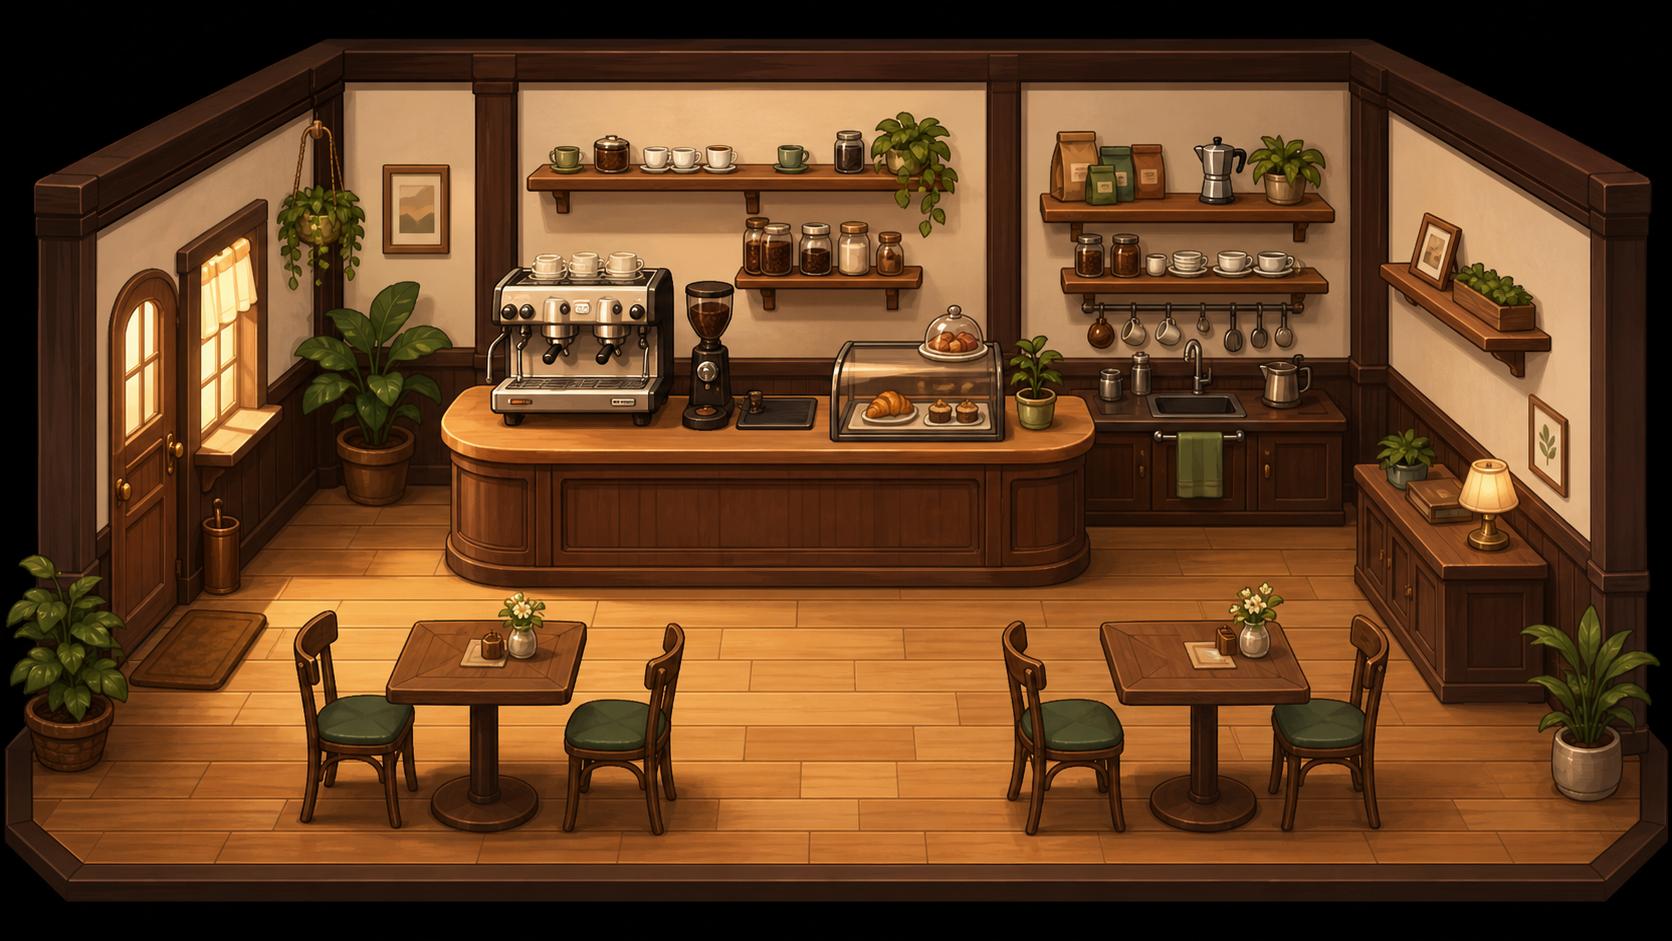
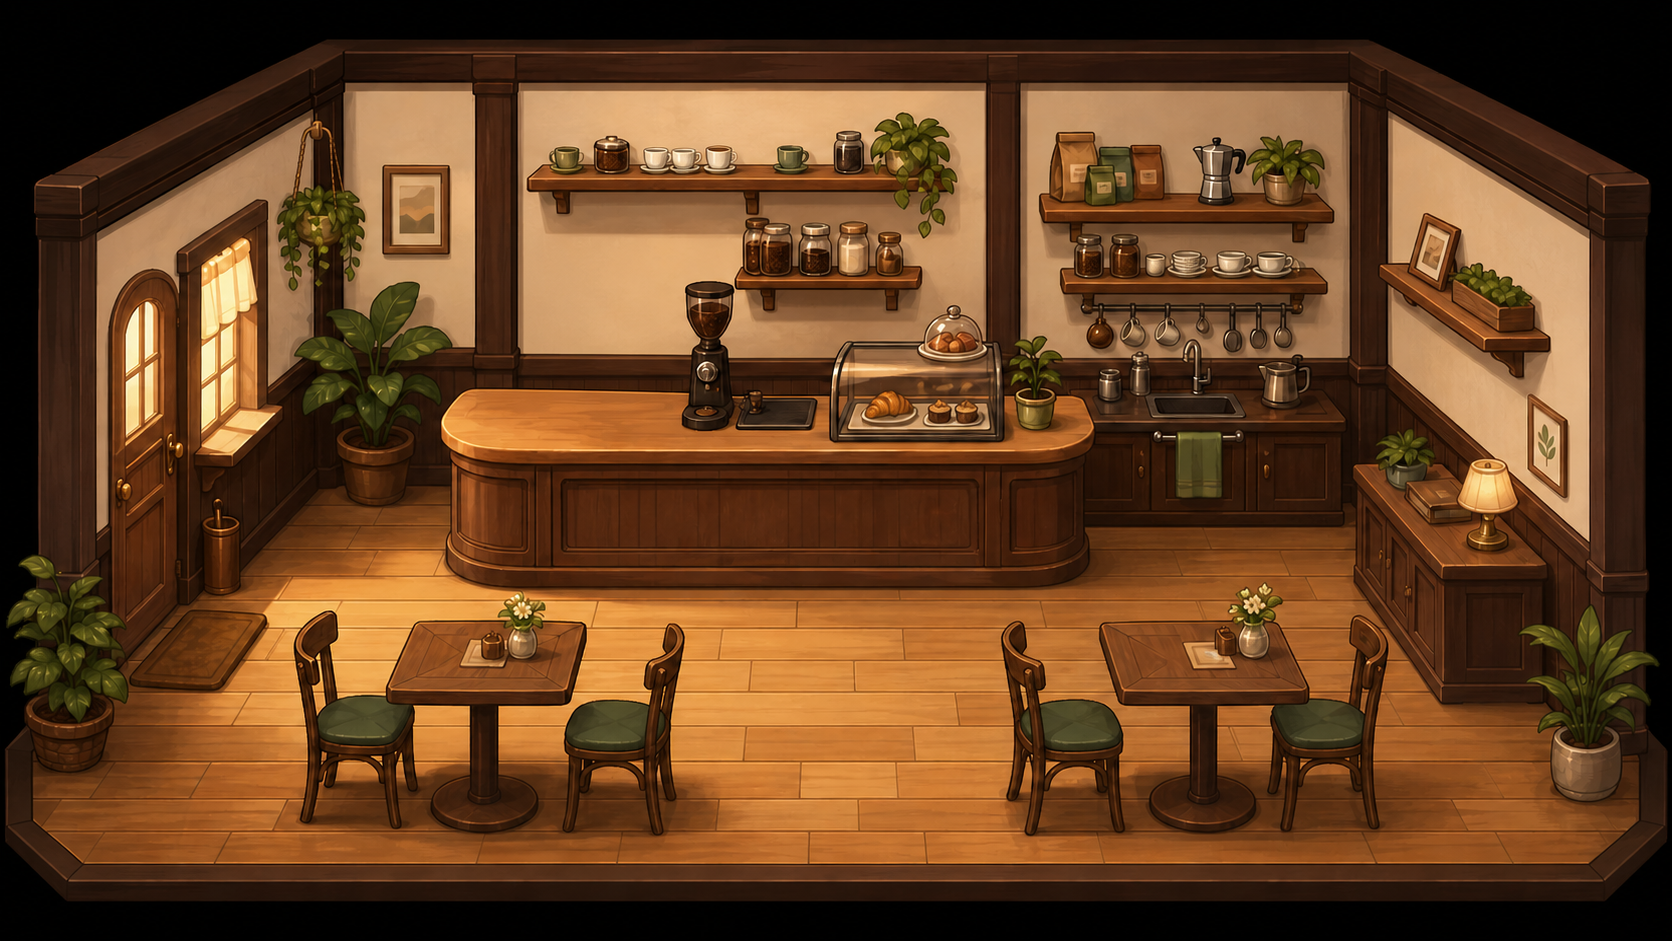
Use clean machine-free cafe background

diff --git a/Assets/GameManager.cs b/Assets/GameManager.cs
@@ -3870,7 +3870,7 @@ public class GameManager : MonoBehaviour
         coffeeMachineSceneImage.preserveAspect = true;
         coffeeMachineSceneImage.raycastTarget = false;
 
-        coffeeMachineLockedPlaceholderImage = CreateSceneBox(parent, "CoffeeMachineLockedPlaceholder", new Vector2(-276f, 164f), new Vector2(266f, 226f), Color.white);
+        coffeeMachineLockedPlaceholderImage = CreateSceneBox(parent, "CoffeeMachineLockedPlaceholder", new Vector2(-294.5363f, 164.3574f), new Vector2(216.5335f, 206.0149f), Color.white);
         coffeeMachineLockedPlaceholderImage.sprite = GetCoffeeMachineLockedPlaceholderSprite();
         coffeeMachineLockedPlaceholderImage.preserveAspect = true;
         coffeeMachineLockedPlaceholderImage.raycastTarget = false;
